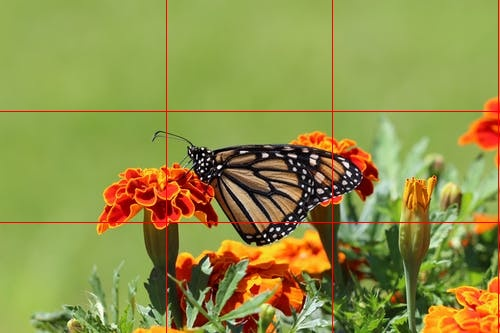
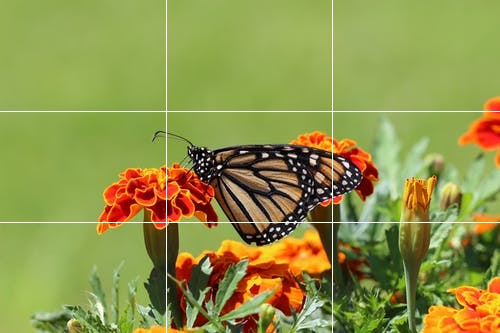
Updated Commit No. 10

Changed region(s): [[0.0, 0.0, 1.0, 1.0]]

diff --git a/practice_grid_line.py b/practice_grid_line.py
@@ -1,4 +1,4 @@
-''' This is a practice file where gridlines are created using cv2.line() 
+''' This is an exercise where gridlines are created using cv2.line() 
 P.S - Only for practice...'''
 import cv2
 
@@ -11,20 +11,23 @@ img_width = img.shape[1]
 
 Y = img_height//3
 X = img_width//3
-
+count = 0
 for y in range(0, img_height, Y):
     for x in range(0, img_width, X):
-        if (img_height - y) < Y or (img_width - x)< X:
+        if (img_height - y) < Y or (img_width - x) < X:
             break
 
         y1 = y + Y
         x1 = x + X
-        
+        # TODO: The following is just a calculation                    
         # y1 = 0+111=111
         # x1 = 0+166=166
+
+        if count < 2:
+            cv2.line(img, (x1,0), (x1,img_height),(255,255,255), 1)
+            count += 1
         
-        cv2.line(img, (x1,0), (x1,img_height),(0,0,255), 1)
-        cv2.line(img, (0,y1), (img_width,y1), (0,0,255), 1)
+    cv2.line(img, (0,y1), (img_width,y1), (255,255,255), 1)
 
 
 cv2.imshow('Grid Image', img)
